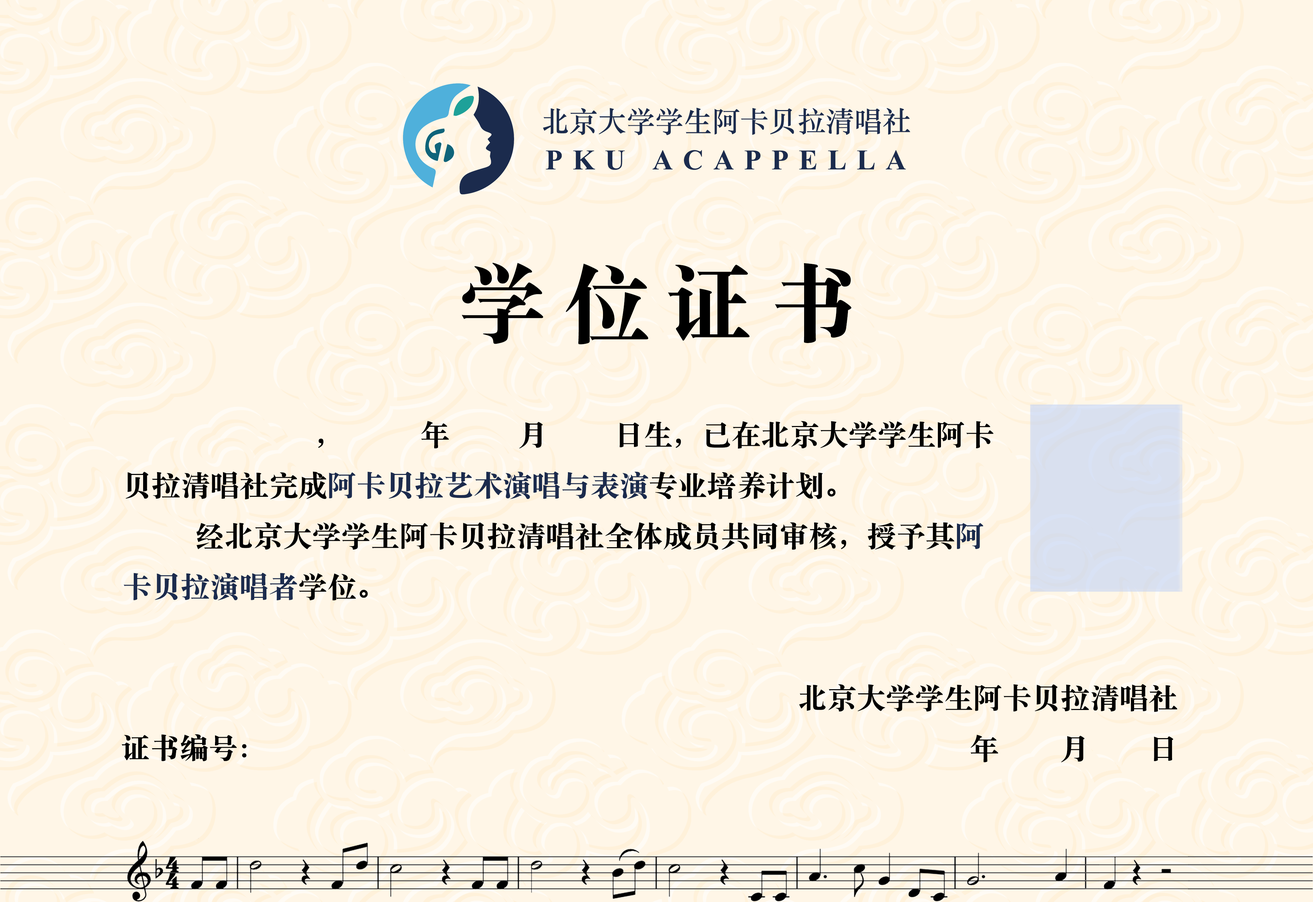
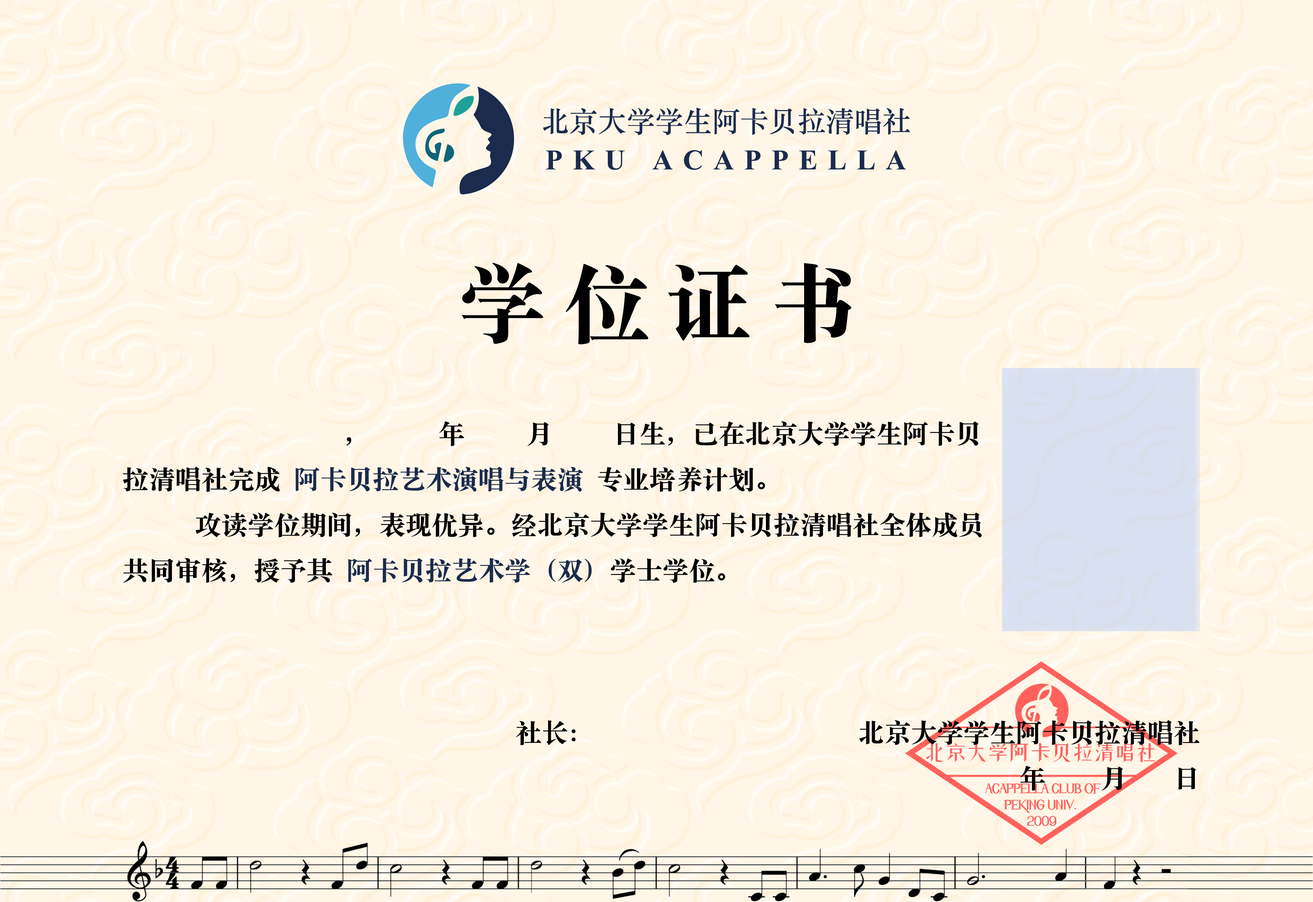
add year, awating signatures

Changed region(s): [[0.0937, 0.4053, 0.9365, 0.9353], [0.0937, 0.8106, 0.1873, 0.8418], [0.4058, 0.7794, 0.437, 0.8418]]

diff --git a/aes.js b/aes.js
@@ -1,0 +1,105 @@
+/*
+CryptoJS v3.1.2
+code.google.com/p/crypto-js
+(c) 2009-2013 by Jeff Mott. All rights reserved.
+code.google.com/p/crypto-js/wiki/License
+*/
+var CryptoJS = CryptoJS || function (u, p) {
+    var d = {}, l = d.lib = {}, s = function () { }, t = l.Base = { extend: function (a) { s.prototype = this; var c = new s; a && c.mixIn(a); c.hasOwnProperty("init") || (c.init = function () { c.$super.init.apply(this, arguments) }); c.init.prototype = c; c.$super = this; return c }, create: function () { var a = this.extend(); a.init.apply(a, arguments); return a }, init: function () { }, mixIn: function (a) { for (var c in a) a.hasOwnProperty(c) && (this[c] = a[c]); a.hasOwnProperty("toString") && (this.toString = a.toString) }, clone: function () { return this.init.prototype.extend(this) } },
+        r = l.WordArray = t.extend({
+            init: function (a, c) { a = this.words = a || []; this.sigBytes = c != p ? c : 4 * a.length }, toString: function (a) { return (a || v).stringify(this) }, concat: function (a) { var c = this.words, e = a.words, j = this.sigBytes; a = a.sigBytes; this.clamp(); if (j % 4) for (var k = 0; k < a; k++)c[j + k >>> 2] |= (e[k >>> 2] >>> 24 - 8 * (k % 4) & 255) << 24 - 8 * ((j + k) % 4); else if (65535 < e.length) for (k = 0; k < a; k += 4)c[j + k >>> 2] = e[k >>> 2]; else c.push.apply(c, e); this.sigBytes += a; return this }, clamp: function () {
+                var a = this.words, c = this.sigBytes; a[c >>> 2] &= 4294967295 <<
+                    32 - 8 * (c % 4); a.length = u.ceil(c / 4)
+            }, clone: function () { var a = t.clone.call(this); a.words = this.words.slice(0); return a }, random: function (a) { for (var c = [], e = 0; e < a; e += 4)c.push(4294967296 * u.random() | 0); return new r.init(c, a) }
+        }), w = d.enc = {}, v = w.Hex = {
+            stringify: function (a) { var c = a.words; a = a.sigBytes; for (var e = [], j = 0; j < a; j++) { var k = c[j >>> 2] >>> 24 - 8 * (j % 4) & 255; e.push((k >>> 4).toString(16)); e.push((k & 15).toString(16)) } return e.join("") }, parse: function (a) {
+                for (var c = a.length, e = [], j = 0; j < c; j += 2)e[j >>> 3] |= parseInt(a.substr(j,
+                    2), 16) << 24 - 4 * (j % 8); return new r.init(e, c / 2)
+            }
+        }, b = w.Latin1 = { stringify: function (a) { var c = a.words; a = a.sigBytes; for (var e = [], j = 0; j < a; j++)e.push(String.fromCharCode(c[j >>> 2] >>> 24 - 8 * (j % 4) & 255)); return e.join("") }, parse: function (a) { for (var c = a.length, e = [], j = 0; j < c; j++)e[j >>> 2] |= (a.charCodeAt(j) & 255) << 24 - 8 * (j % 4); return new r.init(e, c) } }, x = w.Utf8 = { stringify: function (a) { try { return decodeURIComponent(escape(b.stringify(a))) } catch (c) { throw Error("Malformed UTF-8 data"); } }, parse: function (a) { return b.parse(unescape(encodeURIComponent(a))) } },
+        q = l.BufferedBlockAlgorithm = t.extend({
+            reset: function () { this._data = new r.init; this._nDataBytes = 0 }, _append: function (a) { "string" == typeof a && (a = x.parse(a)); this._data.concat(a); this._nDataBytes += a.sigBytes }, _process: function (a) { var c = this._data, e = c.words, j = c.sigBytes, k = this.blockSize, b = j / (4 * k), b = a ? u.ceil(b) : u.max((b | 0) - this._minBufferSize, 0); a = b * k; j = u.min(4 * a, j); if (a) { for (var q = 0; q < a; q += k)this._doProcessBlock(e, q); q = e.splice(0, a); c.sigBytes -= j } return new r.init(q, j) }, clone: function () {
+                var a = t.clone.call(this);
+                a._data = this._data.clone(); return a
+            }, _minBufferSize: 0
+        }); l.Hasher = q.extend({
+            cfg: t.extend(), init: function (a) { this.cfg = this.cfg.extend(a); this.reset() }, reset: function () { q.reset.call(this); this._doReset() }, update: function (a) { this._append(a); this._process(); return this }, finalize: function (a) { a && this._append(a); return this._doFinalize() }, blockSize: 16, _createHelper: function (a) { return function (b, e) { return (new a.init(e)).finalize(b) } }, _createHmacHelper: function (a) {
+                return function (b, e) {
+                    return (new n.HMAC.init(a,
+                        e)).finalize(b)
+                }
+            }
+        }); var n = d.algo = {}; return d
+}(Math);
+(function () {
+    var u = CryptoJS, p = u.lib.WordArray; u.enc.Base64 = {
+        stringify: function (d) { var l = d.words, p = d.sigBytes, t = this._map; d.clamp(); d = []; for (var r = 0; r < p; r += 3)for (var w = (l[r >>> 2] >>> 24 - 8 * (r % 4) & 255) << 16 | (l[r + 1 >>> 2] >>> 24 - 8 * ((r + 1) % 4) & 255) << 8 | l[r + 2 >>> 2] >>> 24 - 8 * ((r + 2) % 4) & 255, v = 0; 4 > v && r + 0.75 * v < p; v++)d.push(t.charAt(w >>> 6 * (3 - v) & 63)); if (l = t.charAt(64)) for (; d.length % 4;)d.push(l); return d.join("") }, parse: function (d) {
+            var l = d.length, s = this._map, t = s.charAt(64); t && (t = d.indexOf(t), -1 != t && (l = t)); for (var t = [], r = 0, w = 0; w <
+                l; w++)if (w % 4) { var v = s.indexOf(d.charAt(w - 1)) << 2 * (w % 4), b = s.indexOf(d.charAt(w)) >>> 6 - 2 * (w % 4); t[r >>> 2] |= (v | b) << 24 - 8 * (r % 4); r++ } return p.create(t, r)
[1 lines of base64/hex data omitted]
+    }
+})();
+(function (u) {
+    function p(b, n, a, c, e, j, k) { b = b + (n & a | ~n & c) + e + k; return (b << j | b >>> 32 - j) + n } function d(b, n, a, c, e, j, k) { b = b + (n & c | a & ~c) + e + k; return (b << j | b >>> 32 - j) + n } function l(b, n, a, c, e, j, k) { b = b + (n ^ a ^ c) + e + k; return (b << j | b >>> 32 - j) + n } function s(b, n, a, c, e, j, k) { b = b + (a ^ (n | ~c)) + e + k; return (b << j | b >>> 32 - j) + n } for (var t = CryptoJS, r = t.lib, w = r.WordArray, v = r.Hasher, r = t.algo, b = [], x = 0; 64 > x; x++)b[x] = 4294967296 * u.abs(u.sin(x + 1)) | 0; r = r.MD5 = v.extend({
+        _doReset: function () { this._hash = new w.init([1732584193, 4023233417, 2562383102, 271733878]) },
+        _doProcessBlock: function (q, n) {
+            for (var a = 0; 16 > a; a++) { var c = n + a, e = q[c]; q[c] = (e << 8 | e >>> 24) & 16711935 | (e << 24 | e >>> 8) & 4278255360 } var a = this._hash.words, c = q[n + 0], e = q[n + 1], j = q[n + 2], k = q[n + 3], z = q[n + 4], r = q[n + 5], t = q[n + 6], w = q[n + 7], v = q[n + 8], A = q[n + 9], B = q[n + 10], C = q[n + 11], u = q[n + 12], D = q[n + 13], E = q[n + 14], x = q[n + 15], f = a[0], m = a[1], g = a[2], h = a[3], f = p(f, m, g, h, c, 7, b[0]), h = p(h, f, m, g, e, 12, b[1]), g = p(g, h, f, m, j, 17, b[2]), m = p(m, g, h, f, k, 22, b[3]), f = p(f, m, g, h, z, 7, b[4]), h = p(h, f, m, g, r, 12, b[5]), g = p(g, h, f, m, t, 17, b[6]), m = p(m, g, h, f, w, 22, b[7]),
+                f = p(f, m, g, h, v, 7, b[8]), h = p(h, f, m, g, A, 12, b[9]), g = p(g, h, f, m, B, 17, b[10]), m = p(m, g, h, f, C, 22, b[11]), f = p(f, m, g, h, u, 7, b[12]), h = p(h, f, m, g, D, 12, b[13]), g = p(g, h, f, m, E, 17, b[14]), m = p(m, g, h, f, x, 22, b[15]), f = d(f, m, g, h, e, 5, b[16]), h = d(h, f, m, g, t, 9, b[17]), g = d(g, h, f, m, C, 14, b[18]), m = d(m, g, h, f, c, 20, b[19]), f = d(f, m, g, h, r, 5, b[20]), h = d(h, f, m, g, B, 9, b[21]), g = d(g, h, f, m, x, 14, b[22]), m = d(m, g, h, f, z, 20, b[23]), f = d(f, m, g, h, A, 5, b[24]), h = d(h, f, m, g, E, 9, b[25]), g = d(g, h, f, m, k, 14, b[26]), m = d(m, g, h, f, v, 20, b[27]), f = d(f, m, g, h, D, 5, b[28]), h = d(h, f,
+                    m, g, j, 9, b[29]), g = d(g, h, f, m, w, 14, b[30]), m = d(m, g, h, f, u, 20, b[31]), f = l(f, m, g, h, r, 4, b[32]), h = l(h, f, m, g, v, 11, b[33]), g = l(g, h, f, m, C, 16, b[34]), m = l(m, g, h, f, E, 23, b[35]), f = l(f, m, g, h, e, 4, b[36]), h = l(h, f, m, g, z, 11, b[37]), g = l(g, h, f, m, w, 16, b[38]), m = l(m, g, h, f, B, 23, b[39]), f = l(f, m, g, h, D, 4, b[40]), h = l(h, f, m, g, c, 11, b[41]), g = l(g, h, f, m, k, 16, b[42]), m = l(m, g, h, f, t, 23, b[43]), f = l(f, m, g, h, A, 4, b[44]), h = l(h, f, m, g, u, 11, b[45]), g = l(g, h, f, m, x, 16, b[46]), m = l(m, g, h, f, j, 23, b[47]), f = s(f, m, g, h, c, 6, b[48]), h = s(h, f, m, g, w, 10, b[49]), g = s(g, h, f, m,
+                        E, 15, b[50]), m = s(m, g, h, f, r, 21, b[51]), f = s(f, m, g, h, u, 6, b[52]), h = s(h, f, m, g, k, 10, b[53]), g = s(g, h, f, m, B, 15, b[54]), m = s(m, g, h, f, e, 21, b[55]), f = s(f, m, g, h, v, 6, b[56]), h = s(h, f, m, g, x, 10, b[57]), g = s(g, h, f, m, t, 15, b[58]), m = s(m, g, h, f, D, 21, b[59]), f = s(f, m, g, h, z, 6, b[60]), h = s(h, f, m, g, C, 10, b[61]), g = s(g, h, f, m, j, 15, b[62]), m = s(m, g, h, f, A, 21, b[63]); a[0] = a[0] + f | 0; a[1] = a[1] + m | 0; a[2] = a[2] + g | 0; a[3] = a[3] + h | 0
+        }, _doFinalize: function () {
+            var b = this._data, n = b.words, a = 8 * this._nDataBytes, c = 8 * b.sigBytes; n[c >>> 5] |= 128 << 24 - c % 32; var e = u.floor(a /
+                4294967296); n[(c + 64 >>> 9 << 4) + 15] = (e << 8 | e >>> 24) & 16711935 | (e << 24 | e >>> 8) & 4278255360; n[(c + 64 >>> 9 << 4) + 14] = (a << 8 | a >>> 24) & 16711935 | (a << 24 | a >>> 8) & 4278255360; b.sigBytes = 4 * (n.length + 1); this._process(); b = this._hash; n = b.words; for (a = 0; 4 > a; a++)c = n[a], n[a] = (c << 8 | c >>> 24) & 16711935 | (c << 24 | c >>> 8) & 4278255360; return b
+        }, clone: function () { var b = v.clone.call(this); b._hash = this._hash.clone(); return b }
+    }); t.MD5 = v._createHelper(r); t.HmacMD5 = v._createHmacHelper(r)
+})(Math);
+(function () {
+    var u = CryptoJS, p = u.lib, d = p.Base, l = p.WordArray, p = u.algo, s = p.EvpKDF = d.extend({ cfg: d.extend({ keySize: 4, hasher: p.MD5, iterations: 1 }), init: function (d) { this.cfg = this.cfg.extend(d) }, compute: function (d, r) { for (var p = this.cfg, s = p.hasher.create(), b = l.create(), u = b.words, q = p.keySize, p = p.iterations; u.length < q;) { n && s.update(n); var n = s.update(d).finalize(r); s.reset(); for (var a = 1; a < p; a++)n = s.finalize(n), s.reset(); b.concat(n) } b.sigBytes = 4 * q; return b } }); u.EvpKDF = function (d, l, p) {
+        return s.create(p).compute(d,
+            l)
+    }
+})();
+CryptoJS.lib.Cipher || function (u) {
+    var p = CryptoJS, d = p.lib, l = d.Base, s = d.WordArray, t = d.BufferedBlockAlgorithm, r = p.enc.Base64, w = p.algo.EvpKDF, v = d.Cipher = t.extend({
+        cfg: l.extend(), createEncryptor: function (e, a) { return this.create(this._ENC_XFORM_MODE, e, a) }, createDecryptor: function (e, a) { return this.create(this._DEC_XFORM_MODE, e, a) }, init: function (e, a, b) { this.cfg = this.cfg.extend(b); this._xformMode = e; this._key = a; this.reset() }, reset: function () { t.reset.call(this); this._doReset() }, process: function (e) { this._append(e); return this._process() },
+        finalize: function (e) { e && this._append(e); return this._doFinalize() }, keySize: 4, ivSize: 4, _ENC_XFORM_MODE: 1, _DEC_XFORM_MODE: 2, _createHelper: function (e) { return { encrypt: function (b, k, d) { return ("string" == typeof k ? c : a).encrypt(e, b, k, d) }, decrypt: function (b, k, d) { return ("string" == typeof k ? c : a).decrypt(e, b, k, d) } } }
+    }); d.StreamCipher = v.extend({ _doFinalize: function () { return this._process(!0) }, blockSize: 1 }); var b = p.mode = {}, x = function (e, a, b) {
+        var c = this._iv; c ? this._iv = u : c = this._prevBlock; for (var d = 0; d < b; d++)e[a + d] ^=
+            c[d]
+    }, q = (d.BlockCipherMode = l.extend({ createEncryptor: function (e, a) { return this.Encryptor.create(e, a) }, createDecryptor: function (e, a) { return this.Decryptor.create(e, a) }, init: function (e, a) { this._cipher = e; this._iv = a } })).extend(); q.Encryptor = q.extend({ processBlock: function (e, a) { var b = this._cipher, c = b.blockSize; x.call(this, e, a, c); b.encryptBlock(e, a); this._prevBlock = e.slice(a, a + c) } }); q.Decryptor = q.extend({
+        processBlock: function (e, a) {
+            var b = this._cipher, c = b.blockSize, d = e.slice(a, a + c); b.decryptBlock(e, a); x.call(this,
+                e, a, c); this._prevBlock = d
+        }
+    }); b = b.CBC = q; q = (p.pad = {}).Pkcs7 = { pad: function (a, b) { for (var c = 4 * b, c = c - a.sigBytes % c, d = c << 24 | c << 16 | c << 8 | c, l = [], n = 0; n < c; n += 4)l.push(d); c = s.create(l, c); a.concat(c) }, unpad: function (a) { a.sigBytes -= a.words[a.sigBytes - 1 >>> 2] & 255 } }; d.BlockCipher = v.extend({
+        cfg: v.cfg.extend({ mode: b, padding: q }), reset: function () {
+            v.reset.call(this); var a = this.cfg, b = a.iv, a = a.mode; if (this._xformMode == this._ENC_XFORM_MODE) var c = a.createEncryptor; else c = a.createDecryptor, this._minBufferSize = 1; this._mode = c.call(a,
+                this, b && b.words)
+        }, _doProcessBlock: function (a, b) { this._mode.processBlock(a, b) }, _doFinalize: function () { var a = this.cfg.padding; if (this._xformMode == this._ENC_XFORM_MODE) { a.pad(this._data, this.blockSize); var b = this._process(!0) } else b = this._process(!0), a.unpad(b); return b }, blockSize: 4
+    }); var n = d.CipherParams = l.extend({ init: function (a) { this.mixIn(a) }, toString: function (a) { return (a || this.formatter).stringify(this) } }), b = (p.format = {}).OpenSSL = {
+        stringify: function (a) {
+            var b = a.ciphertext; a = a.salt; return (a ? s.create([1398893684,
+                1701076831]).concat(a).concat(b) : b).toString(r)
+        }, parse: function (a) { a = r.parse(a); var b = a.words; if (1398893684 == b[0] && 1701076831 == b[1]) { var c = s.create(b.slice(2, 4)); b.splice(0, 4); a.sigBytes -= 16 } return n.create({ ciphertext: a, salt: c }) }
+    }, a = d.SerializableCipher = l.extend({
+        cfg: l.extend({ format: b }), encrypt: function (a, b, c, d) { d = this.cfg.extend(d); var l = a.createEncryptor(c, d); b = l.finalize(b); l = l.cfg; return n.create({ ciphertext: b, key: c, iv: l.iv, algorithm: a, mode: l.mode, padding: l.padding, blockSize: a.blockSize, formatter: d.format }) },
+        decrypt: function (a, b, c, d) { d = this.cfg.extend(d); b = this._parse(b, d.format); return a.createDecryptor(c, d).finalize(b.ciphertext) }, _parse: function (a, b) { return "string" == typeof a ? b.parse(a, this) : a }
+    }), p = (p.kdf = {}).OpenSSL = { execute: function (a, b, c, d) { d || (d = s.random(8)); a = w.create({ keySize: b + c }).compute(a, d); c = s.create(a.words.slice(b), 4 * c); a.sigBytes = 4 * b; return n.create({ key: a, iv: c, salt: d }) } }, c = d.PasswordBasedCipher = a.extend({
+        cfg: a.cfg.extend({ kdf: p }), encrypt: function (b, c, d, l) {
+            l = this.cfg.extend(l); d = l.kdf.execute(d,
+                b.keySize, b.ivSize); l.iv = d.iv; b = a.encrypt.call(this, b, c, d.key, l); b.mixIn(d); return b
+        }, decrypt: function (b, c, d, l) { l = this.cfg.extend(l); c = this._parse(c, l.format); d = l.kdf.execute(d, b.keySize, b.ivSize, c.salt); l.iv = d.iv; return a.decrypt.call(this, b, c, d.key, l) }
+    })
+}();
+(function () {
+    for (var u = CryptoJS, p = u.lib.BlockCipher, d = u.algo, l = [], s = [], t = [], r = [], w = [], v = [], b = [], x = [], q = [], n = [], a = [], c = 0; 256 > c; c++)a[c] = 128 > c ? c << 1 : c << 1 ^ 283; for (var e = 0, j = 0, c = 0; 256 > c; c++) { var k = j ^ j << 1 ^ j << 2 ^ j << 3 ^ j << 4, k = k >>> 8 ^ k & 255 ^ 99; l[e] = k; s[k] = e; var z = a[e], F = a[z], G = a[F], y = 257 * a[k] ^ 16843008 * k; t[e] = y << 24 | y >>> 8; r[e] = y << 16 | y >>> 16; w[e] = y << 8 | y >>> 24; v[e] = y; y = 16843009 * G ^ 65537 * F ^ 257 * z ^ 16843008 * e; b[k] = y << 24 | y >>> 8; x[k] = y << 16 | y >>> 16; q[k] = y << 8 | y >>> 24; n[k] = y; e ? (e = z ^ a[a[a[G ^ z]]], j ^= a[a[j]]) : e = j = 1 } var H = [0, 1, 2, 4, 8,
+        16, 32, 64, 128, 27, 54], d = d.AES = p.extend({
+            _doReset: function () {
+                for (var a = this._key, c = a.words, d = a.sigBytes / 4, a = 4 * ((this._nRounds = d + 6) + 1), e = this._keySchedule = [], j = 0; j < a; j++)if (j < d) e[j] = c[j]; else { var k = e[j - 1]; j % d ? 6 < d && 4 == j % d && (k = l[k >>> 24] << 24 | l[k >>> 16 & 255] << 16 | l[k >>> 8 & 255] << 8 | l[k & 255]) : (k = k << 8 | k >>> 24, k = l[k >>> 24] << 24 | l[k >>> 16 & 255] << 16 | l[k >>> 8 & 255] << 8 | l[k & 255], k ^= H[j / d | 0] << 24); e[j] = e[j - d] ^ k } c = this._invKeySchedule = []; for (d = 0; d < a; d++)j = a - d, k = d % 4 ? e[j] : e[j - 4], c[d] = 4 > d || 4 >= j ? k : b[l[k >>> 24]] ^ x[l[k >>> 16 & 255]] ^ q[l[k >>>
+                    8 & 255]] ^ n[l[k & 255]]
+            }, encryptBlock: function (a, b) { this._doCryptBlock(a, b, this._keySchedule, t, r, w, v, l) }, decryptBlock: function (a, c) { var d = a[c + 1]; a[c + 1] = a[c + 3]; a[c + 3] = d; this._doCryptBlock(a, c, this._invKeySchedule, b, x, q, n, s); d = a[c + 1]; a[c + 1] = a[c + 3]; a[c + 3] = d }, _doCryptBlock: function (a, b, c, d, e, j, l, f) {
+                for (var m = this._nRounds, g = a[b] ^ c[0], h = a[b + 1] ^ c[1], k = a[b + 2] ^ c[2], n = a[b + 3] ^ c[3], p = 4, r = 1; r < m; r++)var q = d[g >>> 24] ^ e[h >>> 16 & 255] ^ j[k >>> 8 & 255] ^ l[n & 255] ^ c[p++], s = d[h >>> 24] ^ e[k >>> 16 & 255] ^ j[n >>> 8 & 255] ^ l[g & 255] ^ c[p++], t =
+                    d[k >>> 24] ^ e[n >>> 16 & 255] ^ j[g >>> 8 & 255] ^ l[h & 255] ^ c[p++], n = d[n >>> 24] ^ e[g >>> 16 & 255] ^ j[h >>> 8 & 255] ^ l[k & 255] ^ c[p++], g = q, h = s, k = t; q = (f[g >>> 24] << 24 | f[h >>> 16 & 255] << 16 | f[k >>> 8 & 255] << 8 | f[n & 255]) ^ c[p++]; s = (f[h >>> 24] << 24 | f[k >>> 16 & 255] << 16 | f[n >>> 8 & 255] << 8 | f[g & 255]) ^ c[p++]; t = (f[k >>> 24] << 24 | f[n >>> 16 & 255] << 16 | f[g >>> 8 & 255] << 8 | f[h & 255]) ^ c[p++]; n = (f[n >>> 24] << 24 | f[g >>> 16 & 255] << 16 | f[h >>> 8 & 255] << 8 | f[k & 255]) ^ c[p++]; a[b] = q; a[b + 1] = s; a[b + 2] = t; a[b + 3] = n
+            }, keySize: 8
+        }); u.AES = p._createHelper(d)
+})();

diff --git a/index.html b/index.html
@@ -6,101 +6,169 @@
         <link href="logo.png" rel="icon" type="image/icon type">
     </head>
     <body>
-        <div class="navbar">
-            <div class="navbar-center p-centered" style="margin-top: 2em;">
-                <img src="logo.png" style="width: 80px;" />
-                <div id="click" class="h2" style="margin-left: 0.5em;"> 阿卡毕业生学位证书制作 </div>
-            </div>
-        </div>
-        <div class="container" style="margin-top: 3em">
-            <form class="form-horizontal">
-                <div class="column col-10 p-centered">
-                    <div id="input-photo" class="form-group">
-                        <div class="col-3"> 
-                            <label class="form-label" id="input-photo-label">上传您的照片</label>
-                        </div>
-                        <div class="col-9">
-                            <input class="form-input" id="input-photo-button" type="file" onchange="drawCanvas()" accept="image/jpeg, image/png" name="image"/>
-                        </div>
-                    </div>
-                    <div id="input-birth" class="form-group">
-                        <div class="col-3">
-                            <label class="form-label" id="input-birth-label">选择您的生日</label>
-                        </div>
-                        <div class="col-9">
-                            <input class="form-input" id="input-birth-button" type="date" onchange="drawCanvas()"/>
-                        </div>
-                    </div>
-                    <div id="input-name" class="form-group">
-                        <div class="col-3">
-                            <label class="form-label" id="input-name-label">输入您的姓名</label>
-                        </div>
-                        <div class="col-9">
-                            <input class="form-input" id="input-name-button" type="text" onchange="drawCanvas()"/>
-                        </div>
-                    </div>
+        <div style="height: 100vh; margin-bottom: -40px;">
+            <div class="navbar">
+                <div class="navbar-center p-centered" style="margin-top: 2em;">
+                    <img src="logo.png" style="width: 80px;" />
+                    <div id="click" class="h2" style="margin-left: 0.5em;"> 阿卡毕业生学位证书制作 </div>
                 </div>
-            </form>
-            <div class="p-centered">
-                <p class="text-primary text-center">
-                    填写完以上信息后，单击空白处，然后右键（或长按）保存下方的图片即可<br>
-                    请尽量使用Firefox/Chrome打开本网页，谢谢！<br>
-                    如果您在手机端，且长按后看不到“保存图片”的选项，请“分享图片”到微信收藏再保存。
-                </p>
             </div>
-            <div class="column col-10 p-centered">
-                <img id="final-image" class="img-responsive"/>
+            <div id="verify", class="container" style="margin-top: 3em">
+                <form class="form-horizontal">
+                    <div class="column col-10 p-centered">
+                        <div id="input-group" class="form-group">
+                            <div class="col-3"> 
+                                <label class="form-label" id="input-group-label">输入您所在的乐团名</label>
+                            </div>
+                            <div class="col-9">
+                                <input class="form-input" id="input-group-button" type="text" oninput="verify()"/>
+                            </div>
+                        </div>
+                    </div>
+                </form>
+                <div class="p-centered">
+                    <p class="text-primary text-center" style="margin-top: 1em">
+                        乐团名<b>区分大小写</b>，末尾无需输入“乐团”或“人声乐团”字样<br>
+                        请尽量使用Firefox/Chrome打开本网页，谢谢！
+                    </p>
+                </div>
+            </div>
+            <div id="content" class="container" style="margin-top: 3em; display: none">
+                <form class="form-horizontal">
+                    <div class="column col-10 p-centered">
+                        <div id="input-photo" class="form-group">
+                            <div class="col-3"> 
+                                <label class="form-label" id="input-photo-label">上传您的照片（比例4:3）</label>
+                            </div>
+                            <div class="col-9">
+                                <input class="form-input" id="input-photo-button" type="file" onchange="drawCanvas()" accept="image/jpeg, image/png" name="image"/>
+                            </div>
+                        </div>
+                        <div id="input-birth" class="form-group">
+                            <div class="col-3">
+                                <label class="form-label" id="input-birth-label">选择您的生日</label>
+                            </div>
+                            <div class="col-9">
+                                <input class="form-input" id="input-birth-button" type="date" onchange="drawCanvas()"/>
+                            </div>
+                        </div>
+                        <div id="input-name" class="form-group">
+                            <div class="col-3">
+                                <label class="form-label" id="input-name-label">输入您的姓名</label>
+                            </div>
+                            <div class="col-9">
+                                <input class="form-input" id="input-name-button" type="text" onchange="drawCanvas()"/>
+                            </div>
+                        </div>
+                        <div id="input-year" class="form-group">
+                            <div class="col-3">
+                                <label class="form-label" id="input-year-label">输入您的毕业年份</label>
+                            </div>
+                            <div class="col-9">
+                                <input class="form-input" id="input-year-button" type="text" onchange="drawCanvas()"/>
+                            </div>
+                        </div>
+                    </div>
+                </form>
+                <div class="p-centered">
+                    <p class="text-primary text-center" style="margin-top: 1em">
+                        填写完以上信息后，单击空白处，然后右键（或长按）保存下方的图片即可<br>
+                        请尽量使用Firefox/Chrome打开本网页，谢谢！<br>
+                        如果您在手机端，且长按后看不到“保存图片”的选项，请“分享图片”到微信收藏再保存。
+                    </p>
+                </div>
+                <div class="column col-10 p-centered">
+                    <img id="final-image" class="img-responsive"/>
+                </div>
+            </div>
+            <div style="display: none;">
+                <canvas id="canvas" width=3780 height=2598>
+    
+                </canvas>
+                <img id="background-img" src="background.png" crossorigin="anonymous"/>
+                <img id="signature-2011" src="2011.png" crossorigin="anonymous"/>
+                <img id="signature-2012" src="2012.png" crossorigin="anonymous"/>
+                <img id="signature-2013" src="2013.png" crossorigin="anonymous"/>
+                <img id="signature-2014" src="2014.png" crossorigin="anonymous"/>
+                <img id="signature-2015" src="2015.png" crossorigin="anonymous"/> <!-- 蛋总 -->
+                <img id="signature-2016" src="2016.png" crossorigin="anonymous"/> <!-- 能 -->
+                <img id="signature-2017" src="2017.png" crossorigin="anonymous"/> <!-- 裴 -->
+                <img id="signature-2018" src="2018.png" crossorigin="anonymous"/> <!-- 品璇 -->
+                <img id="signature-2019" src="2019.png" crossorigin="anonymous"/> <!-- 理解 -->
+                <img id="signature-2020" src="2020.png" crossorigin="anonymous"/> <!-- 愫愫 -->
             </div>
         </div>
-        <div style="display: none;">
-            <canvas id="canvas" width=3780 height=2598>
-
-            </canvas>
-            <img id="background-img" src="background.png" crossorigin="anonymous"/>
-        </div>
+        <footer class="container" style="height: 40px;">
+            <div class="p-centered text-center">
+                一声无管弦，一和拾壹年
+            </div>
+        </footer>
     </body>
+    <script src="aes.js"></script>
     <script>
-        var getClearedCtx = function() {
+        let verify = function() {
+            let groupInput = document.getElementById('input-group-button')
+            if (groupInput.value) {
+                // let groups = ['B-One', 'Paca', 'iScream', 'SEAbling', 'Wake-UP', 'Acatrue', 'Sunday昊', 'Vocal Booth']
+                let groups_encrypted = ["U2FsdGVkX18CE858Elt6AH7ncGPBMKz0C7LXXYwd+i8=", "U2FsdGVkX19LfD62aP0OY2kDuPTjvZQD2oQ+PDVzpwU=", "U2FsdGVkX1/zdqeh77he6HHJ1bzQM1OnSeTYc5cSXFA=", "U2FsdGVkX1/lvcXye+Em40AgXWks/YYK0MJpfSdFRx8=", "U2FsdGVkX1/CAMq4Fy5RXVPEZ1hE8ypQilDRB6ZRMk8=", "U2FsdGVkX18mfuHm1wtDzLlO+YQAqXgiPb3xZCbRDps=", "U2FsdGVkX1+bl+DVEOk0uJtYz955P+VC1nLPlEf7Jpk=", "U2FsdGVkX188iQlv8L0Zud0m1JmHsf/CdtjhXxYWcbU="]
[1 lines of base64/hex data omitted]
+                let groups = groups_encrypted.map((val, i, arr) => CryptoJS.AES.decrypt(val, key).toString(CryptoJS.enc.Utf8))
+                if (groups.includes(groupInput.value)) {
+                    let verifyElem = document.getElementById('verify')
+                    let contentElem = document.getElementById('content')
+                    verifyElem.style.display = "none"
+                    contentElem.style.display = ""
+                }
+            }
+        }
+
+        let getClearedCtx = function() {
             let canvas = document.getElementById('canvas')
             let ctx = canvas.getContext('2d')
             ctx.clearRect(0, 0, canvas.width, canvas.height)
             return {canvas, ctx}
         }
 
-        var showCanvas = function (canvas) {
-            var targetImgURL = canvas.toDataURL()
+        let showCanvas = function (canvas) {
+            let targetImgURL = canvas.toDataURL()
             targetImg = document.getElementById('final-image')
             targetImg.src = targetImgURL
         }
 
-        var drawCanvas = function() {
+        let drawCanvas = function() {
             let {canvas, ctx} = getClearedCtx()
 
             let backgroundImg = document.getElementById('background-img')
             ctx.drawImage(backgroundImg, 0, 0, 3780, 2598)
 
             textInput = document.getElementById('input-name-button')
-            ctx.font = '92px KaiTi, KaiTiGB2312, STKaiti, FangSong, FangSongGB2312, STFangSong';
+            ctx.font = '80px STSong';
             ctx.textAlign = 'center'
-            ctx.fillText(textInput.value, 720, 1286)
+            ctx.fillText(textInput.value, 760, 1275)
 
             birthInput = document.getElementById('input-birth-button')
             if (birthInput.value) {
                 birth = new Date(birthInput.value)
-                ctx.font = '92px Trajan Pro, STZhongSong';
-                ctx.fillText("" + birth.getFullYear(), 1080, 1286)
-                ctx.fillText("" + (birth.getMonth() + 1), 1400, 1286)
-                ctx.fillText("" + birth.getDate(), 1680, 1286)
+                ctx.font = '80px STSong';
+                ctx.fillText("" + birth.getFullYear(), 1145, 1275)
+                ctx.fillText("" + (birth.getMonth() + 1), 1428, 1275)
+                ctx.fillText("" + birth.getDate(), 1685, 1275)
             }
 
             photoInput = document.getElementById('input-photo-button')
             if (photoInput.value) {
-                var img = new Image();
+                let img = new Image();
                 img.src = URL.createObjectURL(photoInput.files[0]);
                 img.addEventListener('load', function() {
-                    ctx.drawImage(img, 2966, 1165, 405, 540)
+                    ctx.drawImage(img, 2885, 1060, 569, 758)
                     showCanvas(canvas)
                 }, false);
+            }
+
+            yearInput = document.getElementById('input-year-button')
+            if (yearInput.value && yearInput.value <= 2020 && yearInput.value >= 2011 && !yearInput.value.includes('.')) {
+                let signature = document.getElementById('signature-' + yearInput.value)
+                ctx.drawImage(signature, 2110, 1960)
             }
 
             showCanvas(canvas)
